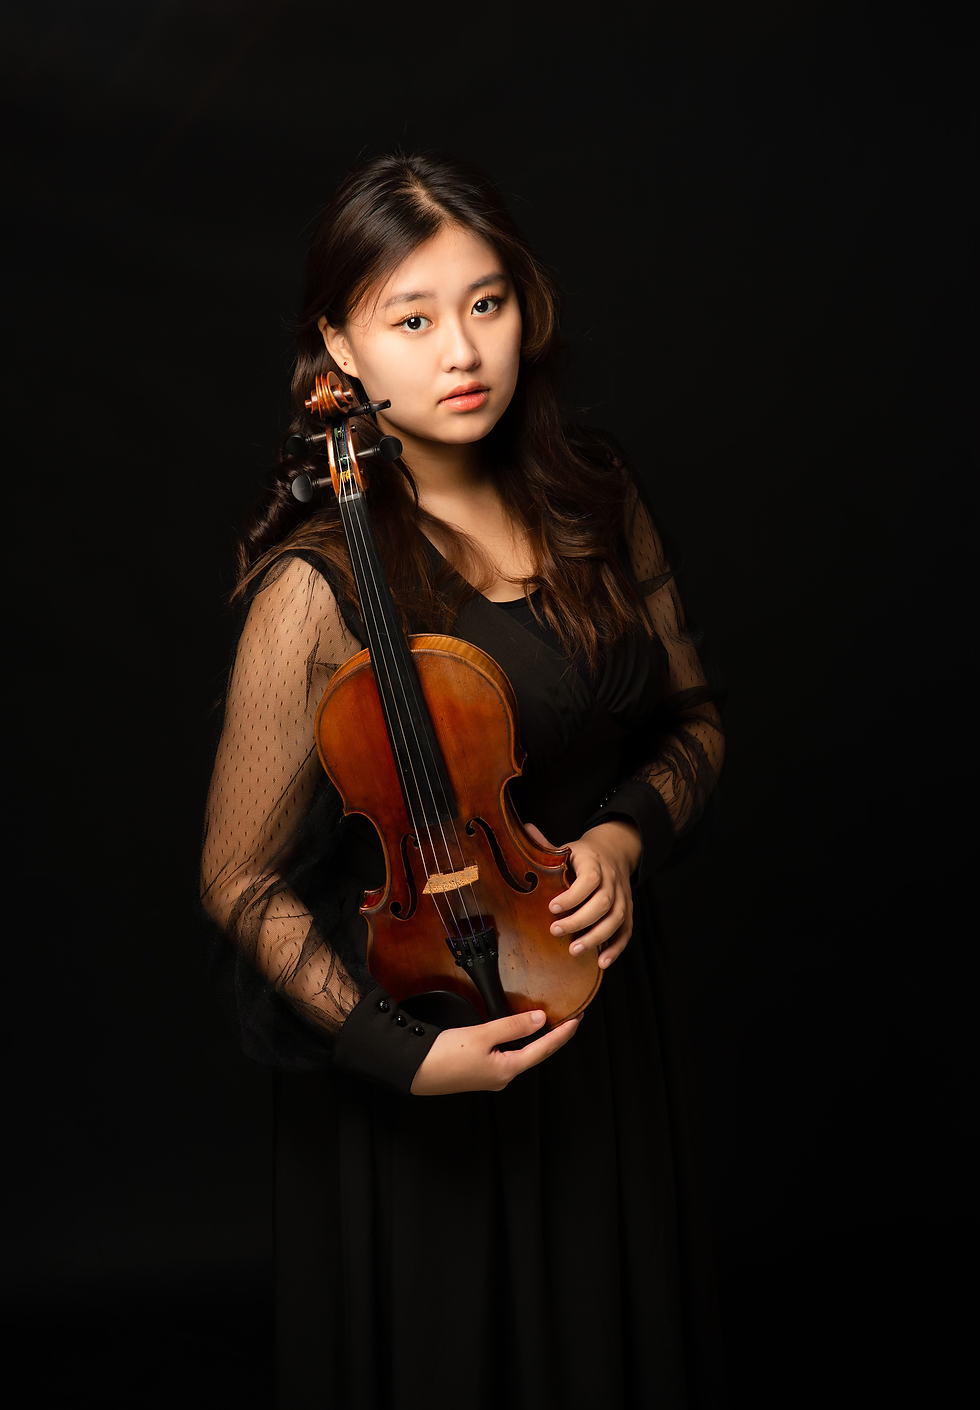
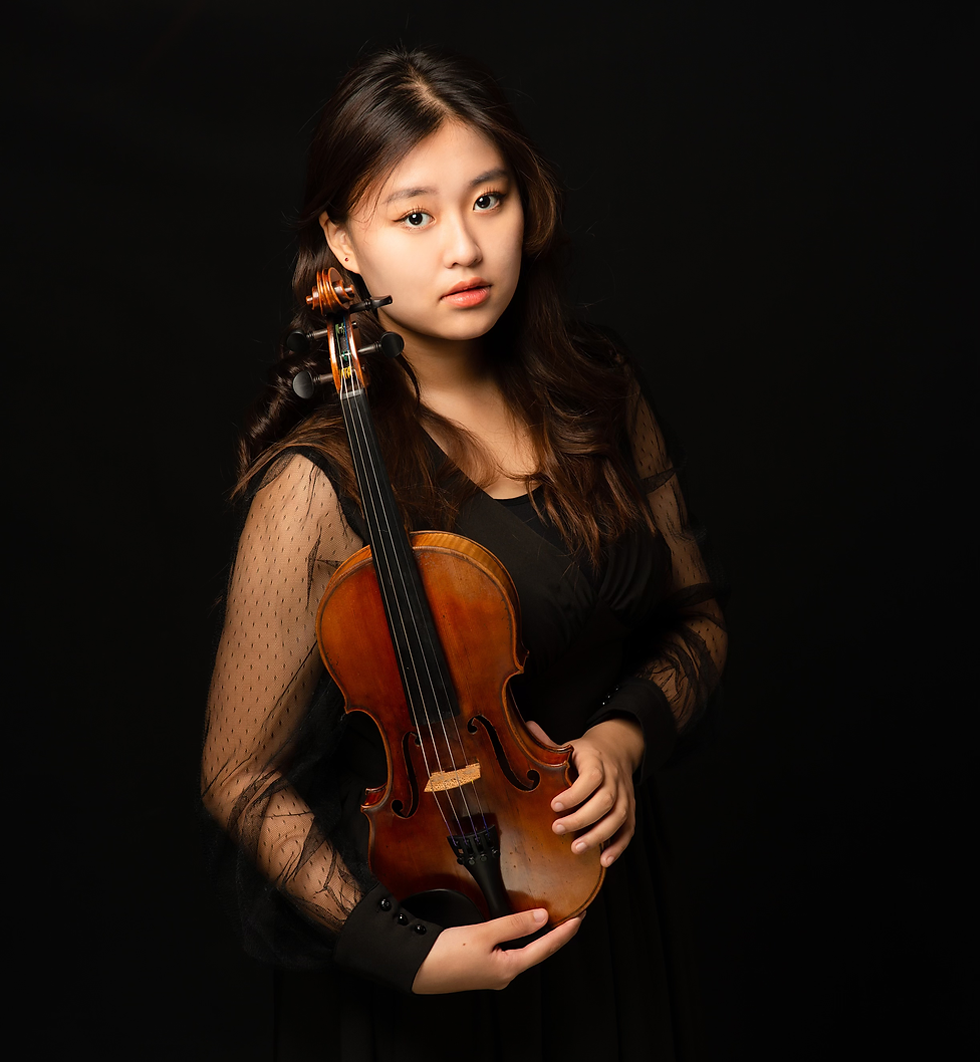
mission

Changed region(s): [[0.1837, 0.0311, 0.7653, 0.9633]]

diff --git a/app.js b/app.js
@@ -443,7 +443,7 @@ app.get("/admin/users/edit/:uid", async (req, res) => {
     res.render('admin/editUser', { data: dataJSON })
 });
 
-app.post('/admin/users/edit/:uid', firebaseAuthMiddleware, async (req, res) => {
+app.post('/admin/users/edit/:uid', async (req, res) => {
     const imageBuffer = Buffer.from(req.body.file, 'base64')
     const imageByteArray = new Uint8Array(imageBuffer);
     const ending = req.body.name.split(".")[req.body.name.split(".").length - 1]

diff --git a/public/styles/mission.css b/public/styles/mission.css
@@ -10,8 +10,8 @@
 }
 
 .mission h5, .mission h6 {
+    padding-left: 0;
     margin-bottom: 25px;
-    line-height: 2.8rem;
     font-size: 2rem;
 }
 
@@ -24,6 +24,12 @@
 .mission h5::before {
     content: "\00a0\00a0\00a0\00a0\00a0\00a0\00a0\00a0\00a0"; /* Four non-breaking spaces */
     display: inline-block;
+}
+
+.mission img {
+    float: right;
+    padding: 0 0 50px 50px;
+    width: 40%;
 }
 
 @media screen and (max-width: 767px) { 
